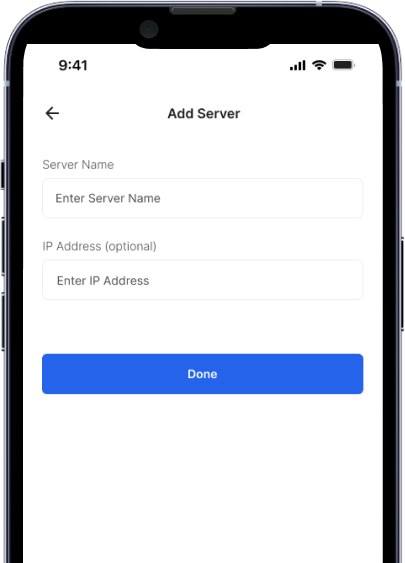
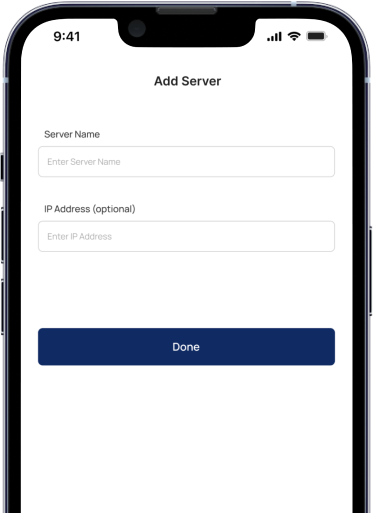
feature: added LINK to landing page

diff --git a/frontend_website/src/Pages/Landing page/landingpage.module.css b/frontend_website/src/Pages/Landing page/landingpage.module.css
@@ -10,6 +10,7 @@
   }
   .landPage_h1 {
     text-align: center;
+    font-size: 56px !important;
   }
   .landPage_p {
     text-align: center;
@@ -17,10 +18,10 @@
   .landPage_btn {
     place-content: center;
   }
-  .landPage_btn button:nth-child(1) {
+  .landPage_btn a:nth-child(1) {
     padding: 15.277px 24px !important;
   }
-  .landPage_btn button:nth-child(2) {
+  .landPage_btn a:nth-child(2) {
     padding: 24.277px 49px !important;
   }
 
@@ -127,7 +128,7 @@
     text-align: center !important;
     color: #000000 !important;
     padding-top: 56px !important;
-    margin: 0px !important;
+    margin: 0px 18px !important;
   }
   .landPage_col1 {
     width: 100% !important;
@@ -162,7 +163,7 @@
     place-content: center;
   }
 
-  .landPagebtn_mob button:nth-child(1) {
+  .landPagebtn_mob a:nth-child(1) {
     padding: 16px 18px;
     gap: 10px !important;
     background: #102a63;
@@ -173,10 +174,10 @@
     line-height: 16px;
     font-weight: 600;
   }
-  .landPagebtn_mob button:nth-child(2) {
+  .landPagebtn_mob a:nth-child(2) {
     padding: 16px 22px;
     gap: 10px !important;
-    border: 1px solid #202020 !important;
+    border: 1px solid #102A63 !important;
     border-radius: 6px;
     border-radius: 6px;
     color: #202020;
@@ -185,6 +186,7 @@
     line-height: 16px;
     font-weight: 600;
     background: #fff;
+    color: #102A63;
   }
   .landPage_section2 {
     padding: 88px 0 0px !important;
@@ -307,7 +309,7 @@
     line-height: 20px !important;
     text-align: center;
   }
-  .landPage_section6items button {
+  .landPage_section6items a {
     background: #102a63 !important;
     border-radius: 6px !important;
     font-size: 14px !important;
@@ -381,8 +383,8 @@
   padding-bottom: 129px;
 }
 
-.landPage_btn button:nth-child(1) {
-  padding: 24.2767px 40px;
+.landPage_btn a:nth-child(1) {
+  padding: 24.2767px 40px !important;
   background: #102a63;
   border-radius: 7.28302px;
   color: #fff;
@@ -394,15 +396,15 @@
   font-style: normal;
   font-weight: 600;
 }
-.landPage_btn button:nth-child(2) {
-  padding: 24.2767px 70px;
-  background: #fff;
+.landPage_btn a:nth-child(2) {
+  padding: 24.2767px 70px !important;
+  background: #fff !important;
   border-radius: 7.28302px;
-  color: #000;
+  color: #102A63;
   font-weight: 400;
   font-size: 20px;
   line-height: 19px;
-  border: 1.5px solid #202020;
+  border: 1.5px solid #102A63;
   font-family: 'Inter';
   font-style: normal;
   font-weight: 600;
@@ -504,9 +506,10 @@
 
 .landPage_section4img img {
   width: 292px;
-  top: 19px;
+  top: 20px;
   position: absolute;
   right: -455px;
+  transform: skew(-9deg, 0deg);
 }
 
 .landPage_section5 {
@@ -755,7 +758,7 @@
   color: #000000;
   padding: 32px 0 68px;
 }
-.landPage_section6items button {
+.landPage_section6items a {
   background: #102a63;
   border-radius: 7.28302px;
   color: #fff;

diff --git a/frontend_website/src/Pages/Landing page/LandingPage.js b/frontend_website/src/Pages/Landing page/LandingPage.js
@@ -16,6 +16,7 @@ import {
 } from './Images';
 import style from '../Landing page/landingpage.module.css';
 import Carousl from '../Landing page/carousel/carousel';
+import { Link } from 'react-router-dom';
 
 const LandingPage = () => {
   return (
@@ -31,8 +32,8 @@ const LandingPage = () => {
             go!
           </p>
           <div className={style.landPage_btn}>
-            <button>Get Started for Free</button>
-            <button>How it works</button>
+            <Link to=''>Get Started for Free</Link>
+            <Link to='/how-it-works'>How it works</Link>
           </div>
         </div>
         <div className={style.landPage_imgFlex}>
@@ -40,8 +41,8 @@ const LandingPage = () => {
           <img src={grouped} alt='' />
         </div>
         <div className={style.landPagebtn_mob}>
-          <button>Download App</button>
-          <button>How it works</button>
+          <Link to='/'>Download App</Link>
+          <Link to='/how-it-works'>How it works</Link>
         </div>
       </div>
       <div className={`${style.landPage_flex} ${style.landPage_section2}`}>
@@ -153,7 +154,7 @@ const LandingPage = () => {
             Monitor, document and modify aspects of servers you manage - on the
             go!
           </p>
-          <button>Get Started for Free</button>
+          <Link to='/'>Get Started for Free</Link>
         </div>
       </div>
     </div>

diff --git a/frontend_website/src/Pages/Landing page/carousel/carousel.js b/frontend_website/src/Pages/Landing page/carousel/carousel.js
@@ -2,12 +2,13 @@ import { Carousel } from 'antd';
 import style from './carousel.module.css';
 import { frank, left, right } from '../Images';
 import { useRef } from 'react';
+import './carousel.css'
 
 const Carousl = () => {
   const ref = useRef()
   return (
-    <div className={{width: '300%', margin: '0' ,padding: '0'}}>
-      <Carousel autoplay pauseOnHover={true} draggable dot={true} ref={ref}>
+    <div className={{width: '300%', height: '', margin: '0' ,padding: '0'}}>
+      <Carousel className={{width: '650px', height: '5000%', margin: '0' ,padding: '0'}} autoplay pauseOnHover={true} draggable dot={true} ref={ref}>
         <div className={style.landPage_section5_div1}>
           <img src={frank} alt='' />
           <p>

diff --git a/frontend_website/src/Pages/Landing page/carousel/carousel.css b/frontend_website/src/Pages/Landing page/carousel/carousel.css
@@ -1,0 +1,19 @@
+/* @media  screen and (max-width: 768px) {
+    .slick-list {
+        height: 398px !important;
+        width: 311px !important;
+      }
+}
+
+
+@media  screen and (max-width: 1024px) {
+    .slick-list {
+        width: 511px;
+        height: 330px;
+      }
+}
+
+.slick-slider.width.height.margin.padding.slick-initialized {
+    display: flex !important;
+    place-content: center !important;
+  } */

diff --git a/frontend_website/src/Pages/Landing page/carousel/carousel.module.css b/frontend_website/src/Pages/Landing page/carousel/carousel.module.css
@@ -76,4 +76,3 @@
     transform: translate(150px, 0px);
   }
 }
-
